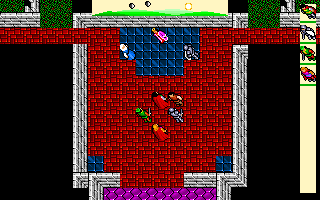
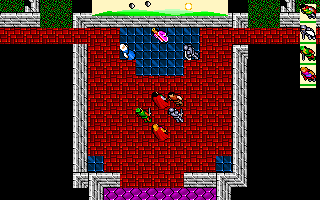
Show the game's mouse pointer; size the party column to the party

Changed region(s): [[0.9375, 0.42, 1.0, 0.99], [0.5, 0.15, 0.5312, 0.21]]

diff --git a/internal/game/layout.go b/internal/game/layout.go
@@ -157,7 +157,9 @@ func (g *Game) panels() (scrolls []image.Rectangle, panels []panel) {
 	}
 	if g.StatusDisplay == cmdStatusParty {
 		add(false, skyPanel, image.Pt((host.ScreenWidth-skyPanel.Dx())/2, 0))
-		add(false, partyPanel, image.Pt(right-partyPanel.Dx(), margin))
+		party := partyPanel
+		party.Max.Y = party.Min.Y + min(int(g.PartySize), partyListRows)*partyRowHeight
+		add(false, party, image.Pt(right-party.Dx(), margin))
 	} else {
 		add(true, statusPanel, image.Pt(right-scrollPadding-statusPanel.Dx(), margin+scrollPadding))
 	}

diff --git a/internal/game/mainloop.go b/internal/game/mainloop.go
@@ -74,6 +74,9 @@ func New(dir string) (*Game, error) {
 	if err := g.gr.LoadPointers(); err != nil {
 		return nil, err
 	}
+	// the host hides its own pointer while it holds the mouse: the game's is drawn over the
+	// screen (the original showed the mouse driver's)
+	g.gr.ShowPointer(true)
 	if err := g.gr.LoadTiles(); err != nil {
 		return nil, err
 	}
